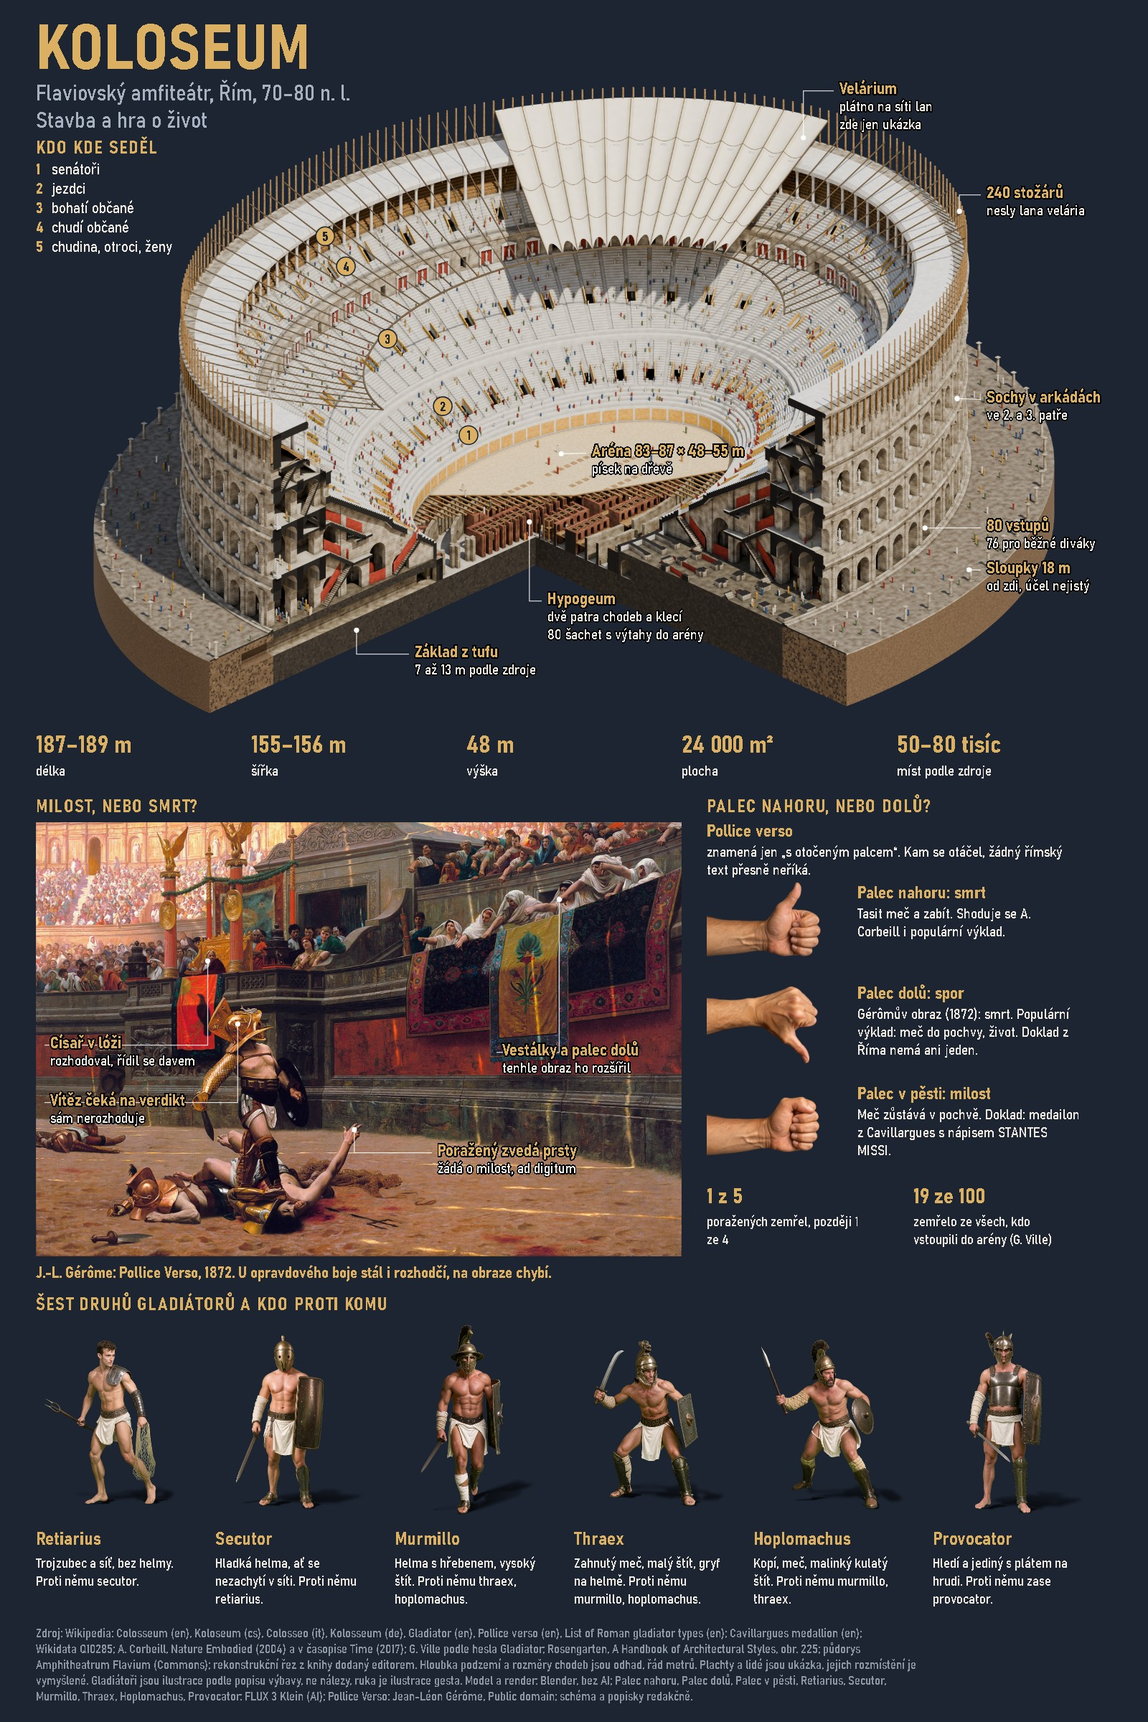
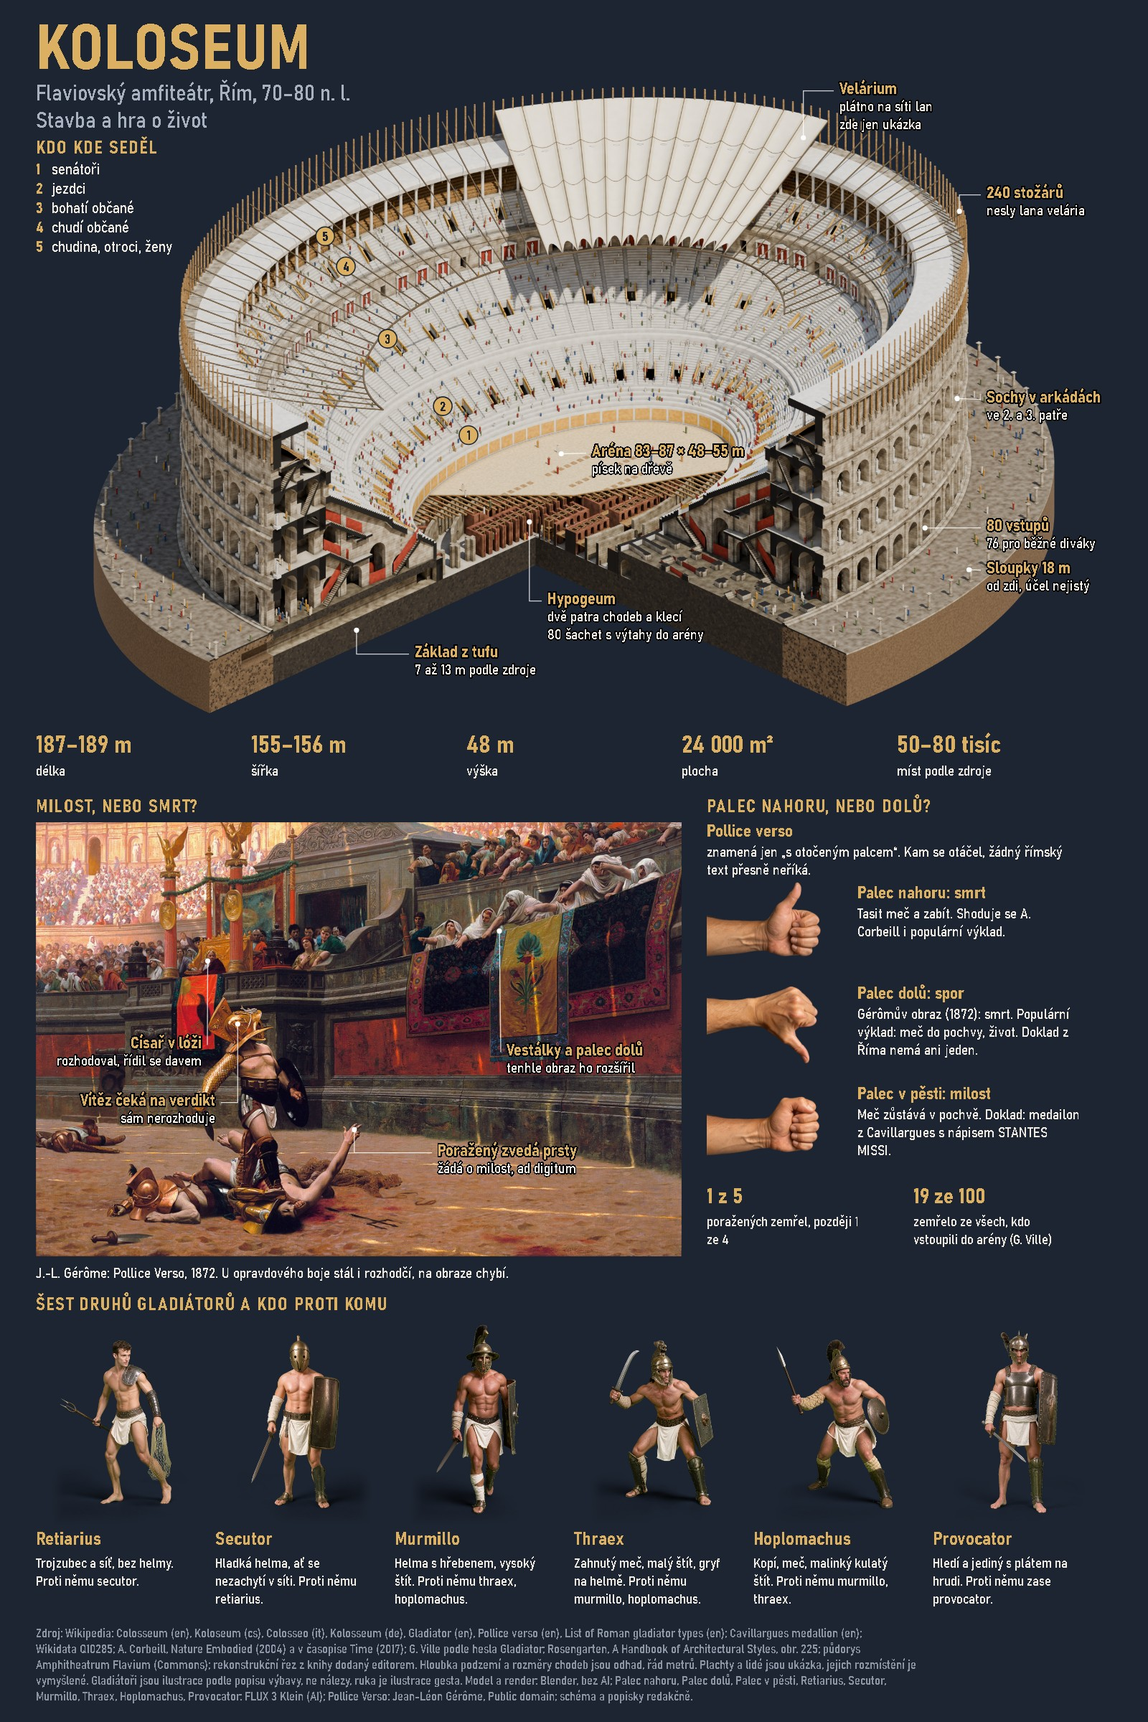
fix(infografiky): stín z obrázku, popisky rudé verze bez obrysu
Stín gladiátorů se bere z originálu na plátně, sedí na světlo a přirůstá k
chodidlům. Rudá verze má popisky s měkkým stínem. Popisek obrazu je obyčejné
písmo, vodítka u scény nepřeškrtávají text.

diff --git a/engine/panels.py b/engine/panels.py
@@ -32,7 +32,10 @@ SCHEMA = 2
 KINDS = ("obraz", "fakta", "text", "osa", "kresba")
 THEMES = {"dark": {"bg": "#1d2532", "ink": "#f1ede4", "muted": "#a7b1bf", "foot": "#8b95a4", "lead": "#ffffff", "halo": "#000000"},
           "light": {"bg": "#f2f3f5", "ink": "#1d1f23", "muted": "#5d636b", "foot": "#6b7079", "lead": "#1d1f23", "halo": "#ffffff"},
-          "ruda": {"bg": "#3a0c10", "ink": "#f6ebdf", "muted": "#d9b8a8", "foot": "#bd9a8e", "lead": "#ffffff", "halo": "#000000"}}
+          "ruda": {"bg": "#3a0c10", "ink": "#f6ebdf", "muted": "#d9b8a8", "foot": "#bd9a8e", "lead": "#ffffff", "halo": None, "stin": True}}
+TEXT_SHADOW = ('<defs><filter id="stin-textu" x="-20%" y="-40%" width="140%" height="180%">'
+               '<feDropShadow dx="0" dy="0" stdDeviation="4" flood-color="#000000" flood-opacity="0.75"/>'
+               '<feDropShadow dx="1" dy="1.4" stdDeviation="1.2" flood-color="#000000" flood-opacity="0.85"/></filter></defs>')
 FONT = "Bahnschrift, 'Roboto Condensed', 'Arial Narrow', sans-serif"
 LINE_WIDTH = 0.47           # průměrná šířka znaku Bahnschrift semi-condensed v em, změřeno na patičce plakátu
 # kopie prahů z studio/src/Infographics.tsx a docs/infografiky-zasady.md
@@ -342,7 +345,8 @@ class Renderer:
             line = _text(px, py + size * 0.9, label["text"], size, self.accent, 700, anchor, self.t["halo"])
             for i, small in enumerate(label["small"]):
                 line += _text(px, py + size * (1.95 + 1.1 * i), small, size * 0.86, self.t["ink"], 400, anchor, self.t["halo"])
-            words.append(f'<g id="{self.gid(label["text"])}">{line}</g>')
+            shadow = ' filter="url(#stin-textu)"' if self.t.get("stin") else ""
+            words.append(f'<g id="{self.gid(label["text"])}"{shadow}>{line}</g>')
         lead_group = f'<g id="{self.gid(f"Vodítka {panel["nazev"]}")}">{"".join(leads)}</g>' if leads else ""
         word_group = f'<g id="{self.gid(f"Popisky {panel["nazev"]}")}">{"".join(words)}</g>' if words else ""
         return lead_group, word_group
@@ -362,9 +366,10 @@ class Renderer:
         below = ""
         if panel.get("pod"):
             x, y, _w, h = panel["rect"]
-            below = _text(x, y + h + 30 * self.k, panel["pod"]["text"], 22 * self.k, self.accent, 700)  # pod obrazem, jako vzorky betonu u Pantheonu
+            if panel["pod"]["text"]:
+                below = _text(x, y + h + 30 * self.k, panel["pod"]["text"], 22 * self.k, self.accent, 700)  # pod obrazem, jako vzorky betonu u Pantheonu
             if panel["pod"]["small"]:
-                below += _text(x, y + h + 56 * self.k, panel["pod"]["small"], 20 * self.k, self.t["ink"])
+                below += _text(x, y + h + (56 if below else 30) * self.k, panel["pod"]["small"], 20 * self.k, self.t["ink"])
             below = f'<g id="{self.gid(f"Popisek {panel["nazev"]}")}">{below}</g>'
         return f'<g id="{self.gid(panel["nazev"])}">{pictures}</g>{self._overlays(panel, place)}{lead}{dots}', self._heading(panel) + words + digits + below
 
@@ -447,7 +452,7 @@ class Renderer:
         lines = wrap(f"{'Zdroj: ' + doc['sources'] + ' ' if doc.get('sources') else ''}{doc['ai_note']}", round((W - 100 * k) / (foot * LINE_WIDTH)))
         top = doc.get("paticka_y") or H - 30 * k - (len(lines) - 1) * 22 * k
         txt.append(f'<g id="{self.gid("Patička")}">{"".join(_text(50 * k, top + i * 22 * k, line, foot, self.t["foot"]) for i, line in enumerate(lines))}</g>')
-        return (f'<svg xmlns="{SVG_NS}" width="{W}" height="{H}" viewBox="0 0 {W} {H}" font-family="{FONT}" font-stretch="semi-condensed">'
+        return (f'<svg xmlns="{SVG_NS}" width="{W}" height="{H}" viewBox="0 0 {W} {H}" font-family="{FONT}" font-stretch="semi-condensed">{TEXT_SHADOW if self.t.get("stin") else ""}'
                 f'<g id="Grafika">{"".join(gfx)}</g><g id="Texty">{"".join(txt)}</g></svg>')
 
 
@@ -574,8 +579,9 @@ def _background(mask: Image.Image, keep_below: int = 400) -> Image.Image:
     return mask.point(lambda v: 0 if v == 128 else 255)
 
 
-def cut_green(rgba: Image.Image) -> Image.Image:
-    """Postava na zeleném plátně: měkká hrana, bez zeleného lemu. Leštěný kov plátno odráží, je ale méně sytý: práh je nad ním a malé díry v něm se zaplní."""
+def cut_green(rgba: Image.Image, shadow: bool = False) -> Image.Image:
+    """Postava na zeleném plátně: měkká hrana, bez zeleného lemu. Leštěný kov plátno odráží, je ale méně sytý: práh je nad ním a malé díry v něm se zaplní.
+    `shadow` nechá stín ze samotného obrázku, který sedí na světlo postavy a přirůstá k chodidlům: tmavší místa plátna proti jasu podlahy v tom řádku."""
     px = np.asarray(rgba.convert("RGB"), dtype=np.float32)
     r, g, b = px[..., 0], px[..., 1], px[..., 2]
     other = np.maximum(r, b)
@@ -585,41 +591,26 @@ def cut_green(rgba: Image.Image) -> Image.Image:
     body = np.maximum(body * (solid > 0), solid * (body > 0.02))
     color = px.copy()
     color[..., 1] = np.minimum(g, other)            # zelený odlesk na hraně a v kovu pryč
-    return Image.fromarray(np.dstack((np.clip(color, 0, 255), body * 255)).astype(np.uint8), "RGBA")
+    alpha = body
+    if shadow:
+        h, w = body.shape
+        rows = np.nonzero((body > 0.5).any(axis=1))[0]
+        feet, tall = int(rows[-1]), int(rows[-1] - rows[0])
+        centre = np.nonzero((body[int(feet - tall * 0.08):feet + 1] > 0.5).any(axis=0))[0].mean()
+        luma = 0.2126 * r + 0.7152 * g + 0.0722 * b
+        floor = np.array([np.percentile(luma[y][body[y] < 0.05], 85) if (body[y] < 0.05).sum() > 20 else 0.0 for y in range(h)], dtype=np.float32)
+        floor = np.convolve(np.pad(floor, 20, mode="edge"), np.ones(41) / 41, mode="valid")[:, None]
+        yy, xx = np.mgrid[0:h, 0:w]
+        near = np.clip(1.2 - np.hypot((xx - centre) / (0.6 * tall), (yy - feet) / (0.2 * tall)), 0, 1)      # dál od chodidel je to nerovnoměrné plátno, ne stín
+        edge = np.clip(np.minimum(np.minimum(xx, w - 1 - xx), h - 1 - yy) / 70, 0, 1)      # u kraje obrázku vybledne, ať nekončí rovnou hranou
+        shade = np.clip((1 - luma / np.maximum(floor, 1)) * 1.8, 0, 1) * near * edge * (body < 0.5)
+        shade = np.asarray(Image.fromarray((shade * 255).astype(np.uint8)).filter(ImageFilter.GaussianBlur(2.0)), dtype=np.float32) / 255
+        alpha = body + (1 - body) * shade
+        color = color * (body / np.maximum(alpha, 1e-3))[..., None]
+    return Image.fromarray(np.dstack((np.clip(color, 0, 255), alpha * 255)).astype(np.uint8), "RGBA")
 
 
-def cast_shadow(cut: Image.Image, widen: int = 208) -> Image.Image:
-    """Vržený stín: začíná přesně u chodidel a padá šikmo do strany po zemi, pod nohama nic není. Zem je přímka mezi chodidly, každá noha stojí na své výšce."""
-    a = np.asarray(cut.getchannel("A"), dtype=np.float32) / 255
-    h, w = a.shape
-    rows = np.nonzero((a > 0.5).any(axis=1))[0]
-    feet, tall = int(rows[-1]), int(rows[-1] - rows[0])
-    band = a[feet - int(tall * 0.1):feet + 1] > 0.5
-    cols = np.nonzero(band.any(axis=0))[0]
-    runs = sorted(np.split(cols, np.nonzero(np.diff(cols) > 6)[0] + 1), key=lambda run: band[:, run].sum(), reverse=True)[:2]
-    soles = sorted((float(run.mean()), float(np.nonzero((a[:, run] > 0.5).any(axis=1))[0][-1])) for run in runs)
-    (x1, y1), (x2, y2) = soles[0], soles[-1]
-    slope = (y2 - y1) / (x2 - x1) if x2 > x1 else 0.0
-    ys, xs = np.nonzero(a > 0.5)
-    ground = y1 + slope * (np.clip(xs, x1, x2) - x1)
-    height = ground - ys
-    keep = height > 0
-    xs, ground, height = xs[keep], ground[keep], height[keep]
-    tx, ty = np.clip((xs + 0.3 * height).astype(int), 0, w + widen - 1), np.clip((ground - 0.1 * height).astype(int), 0, h - 1)
-    layers = []
-    for part, blur in ((height < tall * 0.25, 2.5), (height >= tall * 0.25, 7.0)):      # u chodidel ostrý, dál rozmazaný a slabší
-        layer = np.zeros((h, w + widen), dtype=np.float32)
-        np.maximum.at(layer, (ty[part], tx[part]), 1 - 0.7 * height[part] / tall)
-        layers.append(np.asarray(Image.fromarray((layer * 255).astype(np.uint8)).filter(ImageFilter.GaussianBlur(blur)), dtype=np.float32))
-    out = Image.new("RGBA", (w + widen, h), (0, 0, 0, 0))
-    out.putalpha(Image.fromarray((np.maximum(*layers) * 0.85).astype(np.uint8)))
-    figure = Image.new("RGBA", out.size, (0, 0, 0, 0))
-    figure.paste(cut, (0, 0))
-    out.alpha_composite(figure)
-    return out
-
-
-def cut_out(rgba: Image.Image, tolerance: int = 9) -> Image.Image:
+def cut_out(rgba: Image.Image, shadow: bool = False, tolerance: int = 9) -> Image.Image:
     """Studiové pozadí pryč: postava zůstane bez rámečku a bez rozmazaných okrajů (docs/infografiky-zasady.md). Pozadí je barva rohů obrázku,
     do jednoho rohu smí zasahovat předloktí nebo zbraň. Na tmavém pozadí se tmavý kov ztrácí, postavy s kovem proto chtějí zelené plátno."""
     source = rgba.convert("RGB")
@@ -627,7 +618,7 @@ def cut_out(rgba: Image.Image, tolerance: int = 9) -> Image.Image:
     corners = [source.getpixel(p) for p in ((0, 0), (w - 1, 0), (0, h - 1), (w - 1, h - 1))]
     backdrop = tuple(sorted(c[i] for c in corners)[1] for i in range(3))
     if backdrop[1] > 1.3 * max(backdrop[0], backdrop[2]):
-        return cut_green(rgba)
+        return cut_green(rgba, shadow)
     luma, cb, cr = ImageChops.difference(source.convert("YCbCr"), Image.new("RGB", (w, h), backdrop).convert("YCbCr")).split()
     # podle barvy, ne jasu: stín na kůži je tmavý jako pozadí, ale jinak barevný; osvětlené pozadí barvu drží
     mask = ImageChops.lighter(ImageChops.lighter(cb, cr).point(lambda v: 0 if v <= tolerance else 255), luma.point(lambda v: 0 if v <= 95 else 255))
@@ -638,7 +629,7 @@ def cut_out(rgba: Image.Image, tolerance: int = 9) -> Image.Image:
 
 
 def copy_image(source: Path, root: Path, panel_id: str, crop: list | None = None, cut: bool = False, shadow: bool = False) -> Path:
-    """Hotový obrázek jako panel, volitelně jen výřez [x, y, w, h] v pixelech, volitelně bez studiového pozadí a s vrženým stínem. Nemá model: kotva popisku [x, y, 0] jsou pixely obrázku."""
+    """Hotový obrázek jako panel, volitelně jen výřez [x, y, w, h] v pixelech, volitelně bez studiového pozadí a se stínem z obrázku. Nemá model: kotva popisku [x, y, 0] jsou pixely obrázku."""
     target = panel_dir(root, panel_id)
     target.mkdir(parents=True, exist_ok=True)
     with Image.open(source) as im:
@@ -647,9 +638,7 @@ def copy_image(source: Path, root: Path, panel_id: str, crop: list | None = None
         x, y, w, h = crop
         rgba = rgba.crop((int(x), int(y), int(x + w), int(y + h)))
     if cut:
-        rgba = cut_out(rgba)
-    if shadow:
-        rgba = cast_shadow(rgba)
+        rgba = cut_out(rgba, shadow)
     rgba.save(target / "obraz.png")
     (target / "body.json").write_text(json.dumps({"res": list(rgba.size), "points": {}, "viditelne": [], "origin": [0, 0], "basis": {"x": [1, 0], "y": [0, 1], "z": [0, 0]}}), encoding="utf-8")
     return target

diff --git a/tests/test_panels.py b/tests/test_panels.py
@@ -298,23 +298,49 @@ def test_green_screen_keeps_dark_metal_and_drops_the_screen():
     assert cut.getpixel((90, 50))[3] == 0 and cut.getpixel((70, 184))[3] == 0
 
 
-def test_cast_shadow_starts_at_the_feet_and_falls_to_the_side():
-    pic = Image.new("RGBA", (200, 300), (0, 0, 0, 0))
-    for x, y0, y1 in ((60, 40, 250), (120, 40, 270)):                                # dvě nohy na různé výšce
-        for xx in range(x, x + 20):
-            for y in range(y0, y1):
-                pic.putpixel((xx, y), (200, 150, 120, 255))
-    shaded = panels.cast_shadow(pic, widen=100)
-    assert shaded.size == (300, 300)
-    assert shaded.getpixel((70, 100)) == (200, 150, 120, 255)                        # postava se nemění
-    assert shaded.getpixel((88, 246))[3] > 60 and shaded.getpixel((88, 246))[:3] == (0, 0, 0)      # u chodidla těsně vedle nohy
-    assert shaded.getpixel((70, 262))[3] < 20 and shaded.getpixel((130, 282))[3] < 20    # pod nohama nic
+def test_shadow_comes_from_the_picture_and_stays_where_it_was():
+    pic = Image.new("RGB", (200, 300), (60, 170, 80))
+    for xx in range(90, 110):
+        for y in range(40, 260):
+            pic.putpixel((xx, y), (200, 150, 120))
+    for xx in range(40, 92):                                                         # stín padá doleva od chodidla
+        for y in range(250, 262):
+            pic.putpixel((xx, y), (30, 90, 40))
+    cut = panels.cut_out(pic.convert("RGBA"), shadow=True)
+    assert cut.getpixel((100, 100))[3] == 255
+    assert cut.getpixel((60, 256))[3] > 60 and cut.getpixel((60, 256))[:3] == (0, 0, 0)      # vlevo, kde byl
+    assert cut.getpixel((150, 256))[3] == 0 and cut.getpixel((100, 280))[3] == 0     # vpravo a pod chodidlem nic
+    assert cut.getpixel((60, 60))[3] == 0
+    assert panels.cut_out(pic.convert("RGBA")).getpixel((60, 256))[3] == 0
 
 
 def test_dark_red_theme_colours_the_page(tmp_path):
     svg = panels.render_svg({"size": "1600x1000", "title": "Věž", "template": "ruda", "ai_note": "x", "panels": [
         {"id": "cisla", "typ": "fakta", "rect": [0, 0, 800, 100], "nazev": "Čísla", "smer": "radek", "items": [{"value": "1", "text": "a"}]}]}, tmp_path)
     assert f'fill="{panels.THEMES["ruda"]["bg"]}"' in svg
+
+
+def test_dark_red_labels_have_a_soft_shadow_instead_of_an_outline(tmp_path):
+    source = tmp_path / "a.png"
+    Image.new("RGB", (100, 80), "red").save(source)
+    panels.copy_image(source, tmp_path, "obr")
+    doc = {"size": "1600x1000", "title": "Věž", "ai_note": "x", "panels": [{"id": "obr", "typ": "obraz", "rect": [0, 0, 800, 400], "nazev": "Obraz", "labels": [label("Vítěz", [10, 20, 0], pos=[900, 100])]}]}
+    doc["panels"] = panels.validate(doc)
+    red = panels.render_svg({**doc, "template": "ruda"}, tmp_path)
+    assert 'filter="url(#stin-textu)"' in red and 'stroke="#000000"' not in red
+    assert 'filter="url(#stin-textu)"' in panels.clean_svg(red, allow_data_images=True)
+    dark = panels.render_svg({**doc, "template": "dark"}, tmp_path)
+    assert "stin-textu" not in dark and 'stroke="#000000"' in dark
+
+
+def test_caption_without_a_heading_is_plain_text(tmp_path):
+    source = tmp_path / "a.png"
+    Image.new("RGB", (100, 80), "red").save(source)
+    panels.copy_image(source, tmp_path, "obr")
+    doc = {"size": "1600x1000", "title": "Věž", "ai_note": "x", "accent": "#dcb062", "panels": [{"id": "obr", "typ": "obraz", "rect": [0, 0, 800, 400], "nazev": "Obraz", "pod": {"small": "Autor, rok"}}]}
+    doc["panels"] = panels.validate(doc)
+    caption = re.search(r"<text[^>]*>Autor, rok</text>", panels.render_svg(doc, tmp_path)).group(0)
+    assert 'font-weight="400"' in caption and "#dcb062" not in caption and 'y="430.0"' in caption
 
 
 def test_thresholds_match_the_editor():

diff --git a/scripts/3d/koloseum_infografika.py b/scripts/3d/koloseum_infografika.py
@@ -59,7 +59,7 @@ def label(text: str, small, kotva, x: float, y: float, align: str = "left", **ex
 
 
 def gladiator(key: str, name: str, x: float, poradi: int) -> dict:
-    return {"id": f"gl_{key}", "typ": "obraz", "poradi": poradi, "nazev": name, "rect": [x, FIGURE_Y, 250, 295], "zdroj": {"obraz": OBRAZY[key], "vyriznout": True, "stin": True}}
+    return {"id": f"gl_{key}", "typ": "obraz", "poradi": poradi, "nazev": name, "rect": [x, FIGURE_Y, 240, 295], "zdroj": {"obraz": OBRAZY[key], "vyriznout": True, "stin": True}}
 
 
 def gesture(key: str, name: str, y: float, poradi: int) -> dict:
@@ -94,10 +94,10 @@ def page(sources: dict[str, dict]) -> dict:
                 {"value": "187–189 m", "text": "délka"}, {"value": "155–156 m", "text": "šířka"}, {"value": "48 m", "text": "výška"}, {"value": "24 000 m²", "text": "plocha"}, {"value": "50–80 tisíc", "text": "míst podle zdroje"}]},
             {"id": "scena", "typ": "obraz", "poradi": 3, "nazev": "Pollice Verso", "titulek": {"text": "Milost, nebo smrt?", "x": 50, "y": 1132}, "rect": [50, 1146, 900, 605], "zdroj": {"ref_id": POLLICE_VERSO}, "labels": [
                 label("Poražený zvedá prsty", "žádá o milost, ad digitum", [1010, 975, 0], 610, 1590),
-                label("Vítěz čeká na verdikt", "sám nerozhoduje", [640, 640, 0], 70, 1520),
-                label("Císař v lóži", "rozhodoval, řídil se davem", [545, 440, 0], 70, 1440),
-                label("Vestálky a palec dolů", "tenhle obraz ho rozšířil", [1660, 245, 0], 700, 1450),
-            ], "pod": {"text": "J.-L. Gérôme: Pollice Verso, 1872. U opravdového boje stál i rozhodčí, na obraze chybí."}},
+                label("Vítěz čeká na verdikt", "sám nerozhoduje", [640, 640, 0], 300, 1520, "right"),
+                label("Císař v lóži", "rozhodoval, řídil se davem", [545, 440, 0], 281, 1440, "right"),
+                label("Vestálky a palec dolů", "tenhle obraz ho rozšířil", [1470, 345, 0], 706, 1450),
+            ], "pod": {"small": "J.-L. Gérôme: Pollice Verso, 1872. U opravdového boje stál i rozhodčí, na obraze chybí."}},
             {"id": "palec", "typ": "text", "poradi": 4, "nazev": "Palec", "titulek": {"text": "Palec nahoru, nebo dolů?", "x": 985, "y": 1132}, "rect": [985, 1142, 575, 85], "size": 24, "small_size": 20, "krok": 85, "items": [
                 {"value": "Pollice verso", "text": "znamená jen „s otočeným palcem“. Kam se otáčel, žádný římský text přesně neříká."}]},
             gesture("nahoru", "Palec nahoru", 1222, 6),

diff --git a/docs/spikes/2026-11-01-koloseum.md b/docs/spikes/2026-11-01-koloseum.md
@@ -46,5 +46,5 @@ Operátor odmítl první verzi: menší obrázky neukazovaly víc než hlavní m
 Lokální FLUX 3 Klein přes `POST /api/v2/images`, 0 USD. Vybráno okem; id vybraných jsou v `OBRAZY` ve skriptu.
 
 - **Scéna:** původní obraz (`20261101-144717-b5c4`, public domain). Čtyři AI varianty s obrazem jako předlohou (semínka 11, 12, 21, 22) operátor odmítl: „Ta rádoby kopie obrazu je příšerná“.
-- **Gladiátoři:** popis výbavy podle hesla, 768 × 1152. Každý má jiné tělo, postoj a semínko (101 až 106); první kolo se stejným semínkem dalo šestkrát stejného muže. Generují se na zeleném plátně: na tmavomodrém se tmavý kov nedal oddělit od pozadí. Klíč je převaha zelené nad červenou a modrou (plátno 56 až 74 i ve stínu, leštěný kov nejvýš 25, změřeno). Stín je vržený (`zdroj.stin`): začíná u chodidel a padá šikmo do strany. Stín pod nohama vypadal, jako by levitovali.
+- **Gladiátoři:** popis výbavy podle hesla, 768 × 1152. Každý má jiné tělo, postoj a semínko (101 až 106); první kolo se stejným semínkem dalo šestkrát stejného muže. Generují se na zeleném plátně: na tmavomodrém se tmavý kov nedal oddělit od pozadí. Klíč je převaha zelené nad červenou a modrou (plátno 56 až 74 i ve stínu, leštěný kov nejvýš 25, změřeno). Stín (`zdroj.stin`) je ten z obrázku, tmavší plátno proti jasu podlahy v řádku: sedí na světlo postavy a přirůstá k chodidlům. Skvrna pod nohama vypadala jako levitace a vržený stín jedním směrem nesedl na světlo.
 - **Ruka:** lidská ruka, fotografické zadání, 960 × 640, 0 USD. Model z kapslí v Blenderu (kůže i mramor) operátor odmítl: „Ta ruka je komiks“, „Lidskou ruku prosím“. Základ je palec nahoru (semínko 42), pěst (51) z něj jako z předlohy `subject`, aby to byla jedna ruka. Pravá ruka s palcem dolů ukazuje hřbet, jak operátor upozornil; s předlohou model vracel dlaň, proto palec dolů (64) bez předlohy, stejným zadáním ruky. Shoda rukou je od oka, ne přesná.

diff --git a/docs/LEARNINGS.md b/docs/LEARNINGS.md
@@ -6,7 +6,7 @@
 - **Jak příště:** před skládáním napsat ke každému panelu jednou větou otázku, kterou hlavní obraz nezodpoví. Když je odpověď jen „totéž zblízka“, panel na stránku nepatří. Téma infografiky je víc než objekt: u stavby i to, co se v ní dělo.
 - **Lidské tělo se nestaví z kapslí.** Ruka v Blenderu z kapslí a remeshe vypadala jako komiks i v mramoru; lokální FLUX udělal skutečnou ruku napoprvé a zdarma. Blender je na stavby a stroje, ne na tělo. Stejné semínko navíc dá šestkrát stejného člověka: u série postav jiné semínko a tělo.
 - **Výřez postavy s kovem chce zelené plátno a klíč změřený na obrázku.** Na tmavém pozadí se kov ztrácí. Na zeleném odráží plátno, poměr barev selhal v obou směrech, rozhodla až převaha zelené změřená na vzorcích. Kontrolovat výřez ve zvětšení, ne na zmenšené stránce: zubaté okraje a sežraný kov jsem na listu neviděl, operátor ano.
-- **Stín patří od chodidel do strany, ne pod ně.** Rozmazaná skvrna pod nohama udělá levitaci.
+- **Stín postavy se nevyrábí, bere se z obrázku.** Skvrna pod nohama udělala levitaci, vržený stín jedním směrem nesedl na světlo. Skutečný stín je v originálu na plátně a sedí sám.
 - **Slavný volný obraz se nekopíruje modelem.** FLUX s obrazem jako předlohou vrátil skoro stejný obraz s chybami a operátor ho odmítl jako „rádoby kopii“. Když je předloha public domain, patří na stránku ona.
 
 ## 2026-11-01 — Model z dílů: kontrola, zadání a podklady od operátora
